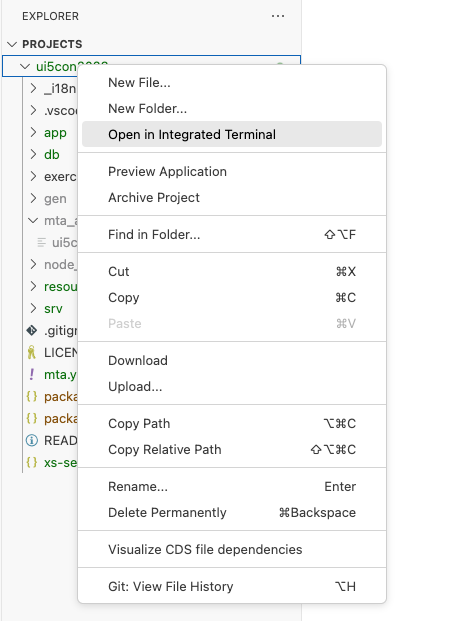
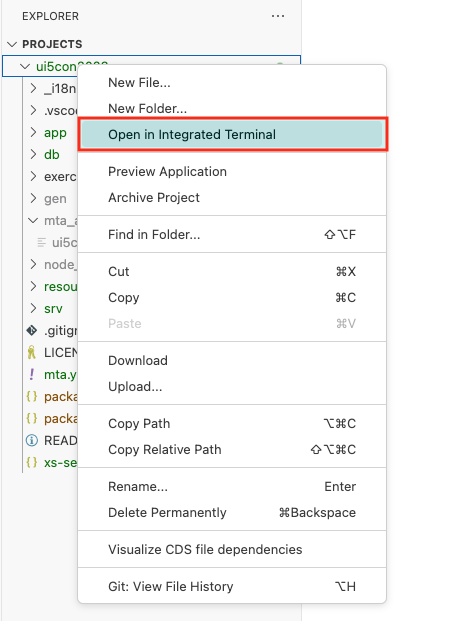
Clearnup ex9

Changed region(s): [[0.1505, 0.1836, 0.843, 0.2448]]

diff --git a/exercises/ex9/README.md b/exercises/ex9/README.md
@@ -5,21 +5,27 @@ In this exercise you will generate the deployment configuration using a managed 
 
 ## Exercise 9.1 - Add Sample Data
 
-Open a terminal window, from the root of your CAP project, right-click your project and select `Open in Integrated Terminal`;
+(1) Open a terminal window, from the root of your CAP project, right-click your project and select `Open in Integrated Terminal`;
 
 ![](./images/image1.png)
 
-In the new terminal window, run the command;
+(2) In the new terminal window, run the command;
 
 ```bash
 cds add tiny-sample
 ```
 
+![](./images/image2.png)
+
 ## Exercise 9.2 - Add a Multi Target Application configuration
+
+(3) In the terminal window,  run the command;
 
 ```bash
 cds add mta
 ```
+
+![](./images/image3.png)
 
 The following files are now added to your project;
 
@@ -28,41 +34,49 @@ The following files are now added to your project;
 
 ## Exercise 9.3 - Build CDS sources for HANA deployment
 
+(4) In the terminal window,  run the command;
+
 ```bash
 cds build --for hana
 ```
 
+![](./images/image4.png)
+
 This is generates a `package.json` that is required for the database deployment, so lets copy that into the `db` folder;
+
+(5) In the terminal window,  run the command;
 
 ```bash
 cp gen/db/package.json db
 ```
 
+![](./images/image5.png)
+
 ## Exercise 9.4 - Add Managed Approuter Configuration
 
-Right click `mta.yaml`, select `Create MTA Module from Template`;
+(6) Right click `mta.yaml`, select `Create MTA Module from Template`;
 
-![](./images/image2.png)
+![](./images/image6.png)
 
-A new tab opens, select `Approuter Configuration`, then select `Start`;
+(7) A new tab opens, select `Approuter Configuration`, then select `Start`;
 
-![](./images/image3.png)
+![](./images/image7.png)
 
-Ensure `Managed Approuter` is selected as the HTML5 application runtime. Enter a unique name, for example `ui5con2024` and select `Next`.
+(8) Ensure `Managed Approuter` is selected as the HTML5 application runtime. Enter a unique name, for example `ui5con2024` and select `Next`.
 
-![](./images/image4.png)
+![](./images/image8.png)
 
-Since the `xs-security.json` was already created in a previous step, the wizard will ask you for an `Action`. Assuming, you havent touched the `xs-security.json`, select `overwrite` to apply the default settings, then select `Finish` to complete the task.
+(9) Since the `xs-security.json` was already created in a previous step, the wizard will ask you for an `Action`. Assuming, you havent touched the `xs-security.json`, select `overwrite` to apply the default settings, then select `Finish` to complete the task.
 
-![](./images/image5.png)
+![](./images/image9.png)
 
 The `mta.yaml` is now updated with a managed approuter configuration.
 
 ## Exercise 9.5 - Validate your configuration
 
-As it stands, `package.json` does not contain any build scripts! These will be added in another step! For the moment, you need to right click `mta.yaml` and select `Build MTA Project`;
+(10) As it stands, `package.json` does not contain any build scripts! These will be added in another step! For the moment, you need to right click `mta.yaml` and select `Build MTA Project`;
 
-![](./images/image6.png)
+![](./images/image10.png)
 
 ## Summary
 
